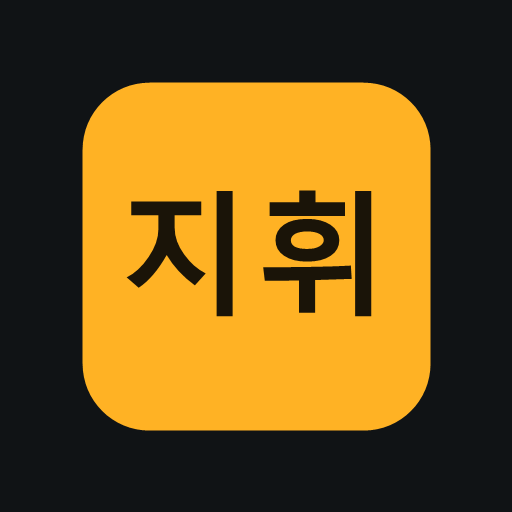
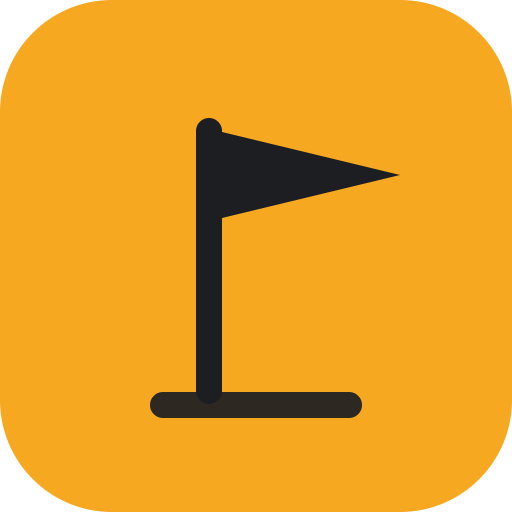
현장지휘 보드 V2.64 — 앱 로고 교체: 지휘 깃발 심볼형

diff --git a/index.html b/index.html
@@ -1020,7 +1020,7 @@
 </style>
 
 <header class="topbar">
-  <div class="brand">현장지휘 보드<span class="proto">V 2.63</span></div>
+  <div class="brand">현장지휘 보드<span class="proto">V 2.64</span></div>
   <div class="incident" contenteditable="true" spellcheck="false" aria-label="사건명"></div>
   <span id="viewerBadge" role="button" title="이 기기의 권한 — 탭해서 보기 전용/편집 모드 전환"></span>
   <div class="clock" id="clock">--:--:--</div>

diff --git a/sw.js b/sw.js
@@ -1,6 +1,6 @@
 /* 현장지휘 보드 — 오프라인 캐시 서비스워커
    배포할 때마다 CACHE 버전을 올리면 이전 캐시가 교체된다. */
-var CACHE = "fireboard-v2.63";
+var CACHE = "fireboard-v2.64";
 var ASSETS = [
   "./",
   "./index.html",
